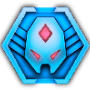
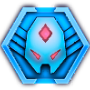
Reduced diamond aliasing

diff --git a/CHANGELOG.md b/CHANGELOG.md
@@ -1,5 +1,11 @@
 # CHANGELOG
 
+## Unreleased
+
+### Fixed
+
+- Reduced aliasing on Diamond rank icon
+
 ## v4.22.1 - 2021-05-12
 
 ### Changed
